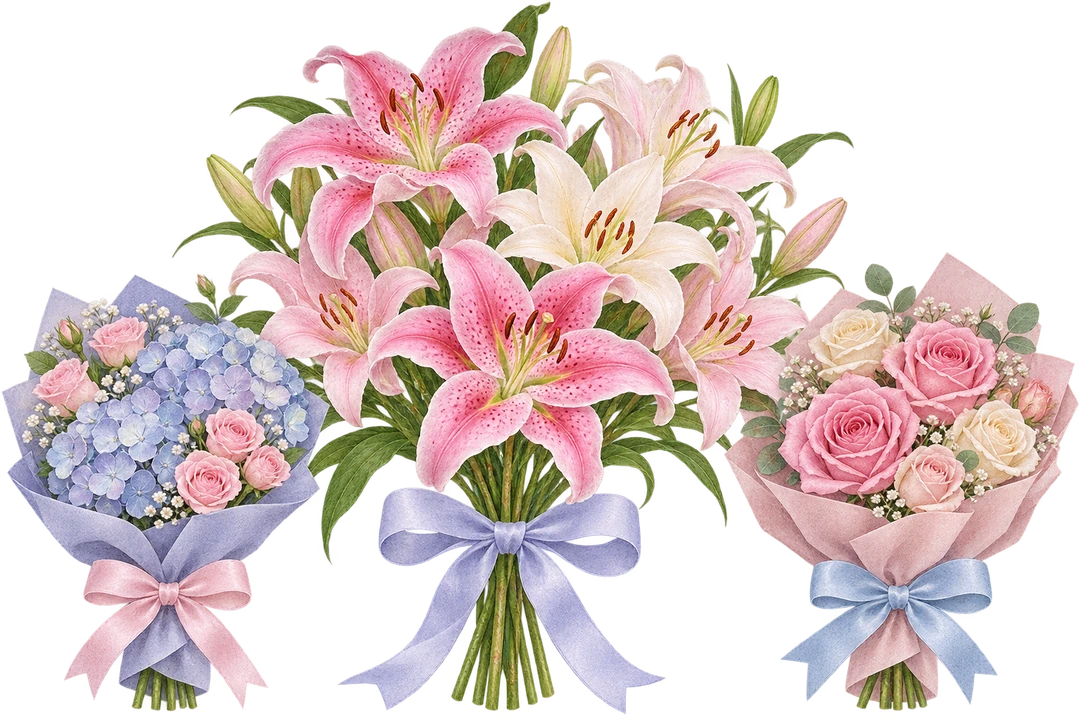
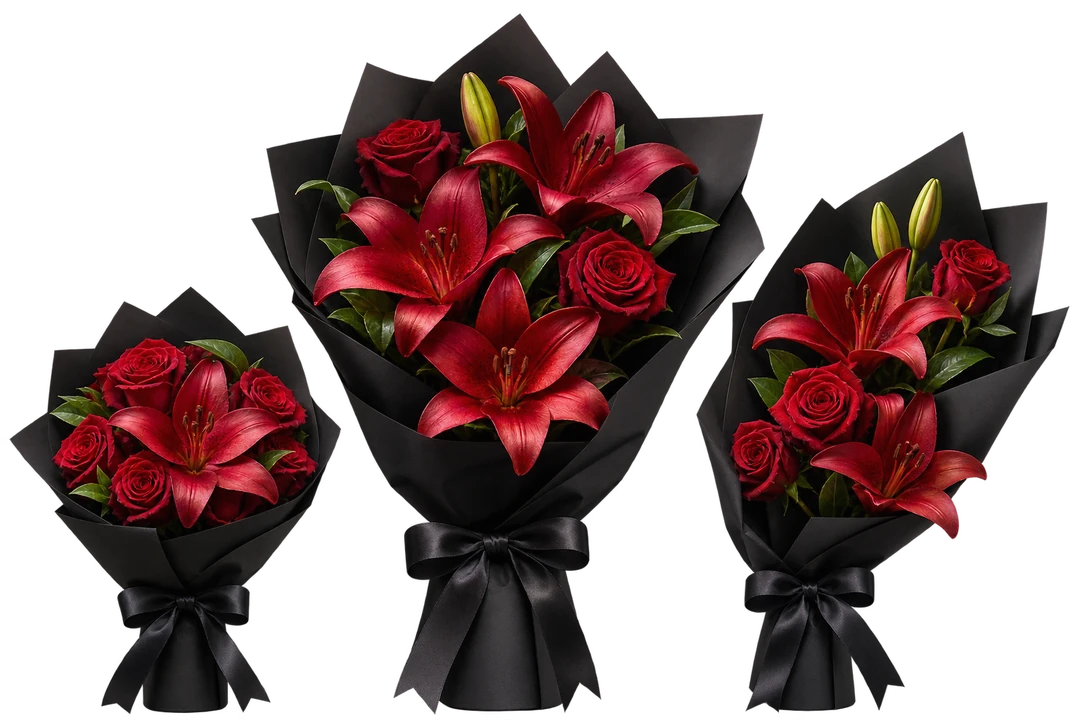
feat: add a floating birthday portrait and update the farewell bouquets

diff --git a/src/components/greeting-portrait.css b/src/components/greeting-portrait.css
@@ -1,0 +1,87 @@
+.greeting-composition {
+  display: grid;
+  grid-template-columns: minmax(0, 1fr) minmax(88px, 39%) minmax(0, 1fr);
+  align-items: center;
+  column-gap: clamp(3px, 1.5vw, 14px);
+  margin: 14px auto 18px;
+  padding-block: 7px;
+}
+
+.greeting-words {
+  display: grid;
+  gap: clamp(12px, 3.3vw, 20px);
+  margin: 0;
+  padding: 0;
+  list-style: none;
+  color: #e0e7ff;
+  font-size: clamp(.73rem, 2.9vw, 1.04rem);
+  line-height: 1.2;
+  text-align: center;
+}
+
+.greeting-words li {
+  animation: greeting-drift 3.15s var(--drift-phase) ease-in-out infinite alternate;
+}
+.words-right li { animation-direction: alternate-reverse; }
+.greeting-words .greeting-favorite {
+  color: #ffbde2;
+  font-weight: 600;
+}
+
+.greeting-portrait {
+  position: relative;
+  isolation: isolate;
+  display: grid;
+  place-items: center;
+  padding: 12px 2px 10px;
+  min-width: 0;
+}
+.greeting-portrait::before {
+  position: absolute;
+  inset: 6% -8% 0;
+  content: "";
+  background: radial-gradient(ellipse, #ce75d74f 4%, #7672d137 47%, transparent 72%);
+  z-index: -1;
+}
+
+.greeting-face {
+  display: block;
+  width: 90%;
+  aspect-ratio: .79;
+  object-fit: contain;
+  filter: drop-shadow(1px 0 #ffe3f3) drop-shadow(-1px 0 #ffe3f3)
+    drop-shadow(0 -1px #ffe3f3) drop-shadow(0 1px #ffe3f3) drop-shadow(0 4px 8px #0b0c29bb);
+  animation: greeting-drift 3.5s ease-in-out infinite alternate-reverse;
+}
+
+.greeting-surprises { position: absolute; inset: 0; pointer-events: none; }
+.greeting-surprises > * {
+  position: absolute;
+  animation: greeting-drift 2.8s var(--drift-phase, 0s) ease-in-out infinite alternate;
+}
+.greeting-star { right: 0; top: 13%; color: #b5c5ff; fill: #8da4ec; --drift-phase: -.8s; }
+.greeting-spark { left: -4%; top: 31%; color: #ffabd8; fill: #e27cb863; --drift-phase: -1.3s; }
+.greeting-heart { right: -4%; bottom: 15%; color: #ffc0e0; fill: #c95b99a0; --drift-phase: -2.2s; }
+.greeting-cake { left: -5%; bottom: 0; width: clamp(27px, 8vw, 52px); --drift-phase: -1.2s; }
+.greeting-hat {
+  left: 14%;
+  top: -1%;
+  width: clamp(19px, 6vw, 36px);
+  aspect-ratio: .8;
+  background: repeating-linear-gradient(145deg, #ffaada 0 5px, #b0beff 5px 10px);
+  clip-path: polygon(16% 0, 100% 78%, 82% 96%, 19% 100%, 0 87%);
+  --drift-phase: -.35s;
+}
+.greeting-surprises i { width: 4px; height: 7px; border-radius: 1px; background: #e8a7df; transform: rotate(23deg); }
+.greeting-surprises i:nth-last-child(2) { top: 2%; right: 22%; --drift-phase: -.9s; }
+.greeting-surprises i:last-child { left: 31%; bottom: 0; background: #b9c9ff; --drift-phase: -1.6s; }
+
+@keyframes greeting-drift {
+  from { translate: 0 3px; }
+  to { translate: 0 -4px; }
+}
+
+@media (max-width: 380px) and (max-height: 620px) {
+  .scene.greeting .story-title { font-size: 1.18rem; }
+  .greeting-composition { margin-block: 11px 13px; }
+}

diff --git a/src/components/GreetingPortrait.jsx b/src/components/GreetingPortrait.jsx
@@ -1,0 +1,32 @@
+import React from 'react'
+import Icon from './Icon'
+import './greeting-portrait.css'
+
+const leftWords = ['Thoughtful', 'Warmhearted', 'Funny', 'Supportive', 'Cutest']
+const rightWords = ['Loyal', 'Gorgeous', 'Caring', 'Genuine', 'Unforgettable']
+
+function Compliments({ words, side }) {
+  return <ul className={'greeting-words words-' + side} aria-label="Compliments">
+    {words.map((word, index) => <li key={word}
+      className={word === 'Cutest' || word === 'Gorgeous' ? 'greeting-favorite' : undefined}
+      style={{ '--drift-phase': (-index * .52) + 's' }}>{word}</li>)}
+  </ul>
+}
+
+export default function GreetingPortrait() {
+  return <div className="greeting-composition">
+    <Compliments words={leftWords} side="left"/>
+    <div className="greeting-portrait">
+      <img className="greeting-face" src="/images/greeting-portrait.webp" alt="Raya smiling"/>
+      <div className="greeting-surprises" aria-hidden="true">
+        <span className="greeting-hat"/>
+        <Icon className="greeting-star" name="star" size={23}/>
+        <Icon className="greeting-spark" name="spark" size={21}/>
+        <Icon className="greeting-heart" name="heart" size={24}/>
+        <img className="greeting-cake" src="/images/floating-cake.webp" alt=""/>
+        <i/><i/>
+      </div>
+    </div>
+    <Compliments words={rightWords} side="right"/>
+  </div>
+}

diff --git a/src/App.jsx b/src/App.jsx
@@ -6,6 +6,7 @@ import Companions from './components/Companions'
 import Icon from './components/Icon'
 import FlowerTransition from './components/FlowerTransition'
 import FlowerGift from './components/FlowerGift'
+import GreetingPortrait from './components/GreetingPortrait'
 import WishBottle from './components/WishBottle'
 import LetterCollage from './components/LetterCollage'
 import OpeningParty from './components/OpeningParty'
@@ -78,7 +79,10 @@ export default function App(){
         <div key={level} className={'quest-page'+(level===3?' quest-playlist':level===titles.length-1?' quest-ending':'')}>
           <div className={'scene story'+(level===1?' greeting':'')}>
             <h1 className="story-title" ref={heading} tabIndex="-1">{titles[level]}</h1>
-            {level===1&&<p>to the kindest and sweetest soul, may life bring you all the beautiful things you deserve!</p>}
+            {level===1&&<>
+              <GreetingPortrait/>
+              <p>to the kindest and sweetest soul, may life bring you all the beautiful things you deserve!</p>
+            </>}
             {level===2&&<>
               <LetterCollage/>
               <div className="letter-paper">{letter.map(paragraph=><p key={paragraph}>{paragraph}</p>)}</div>

diff --git a/src/components/opening-party.css b/src/components/opening-party.css
@@ -37,6 +37,7 @@
   box-shadow: 0 0 0 3px #b9caff37, 0 4px 0 var(--badge-shadow);
   transform: rotate(var(--badge-angle));
   transition: transform .18s ease, box-shadow .18s ease;
+  animation: opening-guest-float 2.9s ease-in-out infinite alternate;
 }
 
 .opening-guest:hover, .opening-guest:focus-visible {
@@ -51,6 +52,12 @@
   grid-column: 3;
   background: #fce1f1;
   color: #a4c8ff;
+  animation-delay: -1.45s;
+}
+
+@keyframes opening-guest-float {
+  from { translate: 0 4px; }
+  to { translate: 0 -7px; }
 }
 
 .guest-disc {

diff --git a/src/components/FlowerGift.jsx b/src/components/FlowerGift.jsx
@@ -5,6 +5,6 @@ export default function FlowerGift() {
   return <section className="flower-gift" aria-labelledby="flower-gift-title">
     <h2 id="flower-gift-title">Flowers for you</h2>
     <img src="/images/birthday-bouquets.webp" width="1080" height="720" loading="lazy"
-      alt="Pink lilies surrounded by two smaller bouquets of blue hydrangeas and pink roses"/>
+      alt="Three differently sized bouquets of red lilies and red roses wrapped in black paper"/>
   </section>
 }

diff --git a/src/components/flower-gift.css b/src/components/flower-gift.css
@@ -14,4 +14,5 @@
   display: block;
   width: 100%;
   height: auto;
+  background: radial-gradient(ellipse, #8d40553a, transparent 71%);
 }
